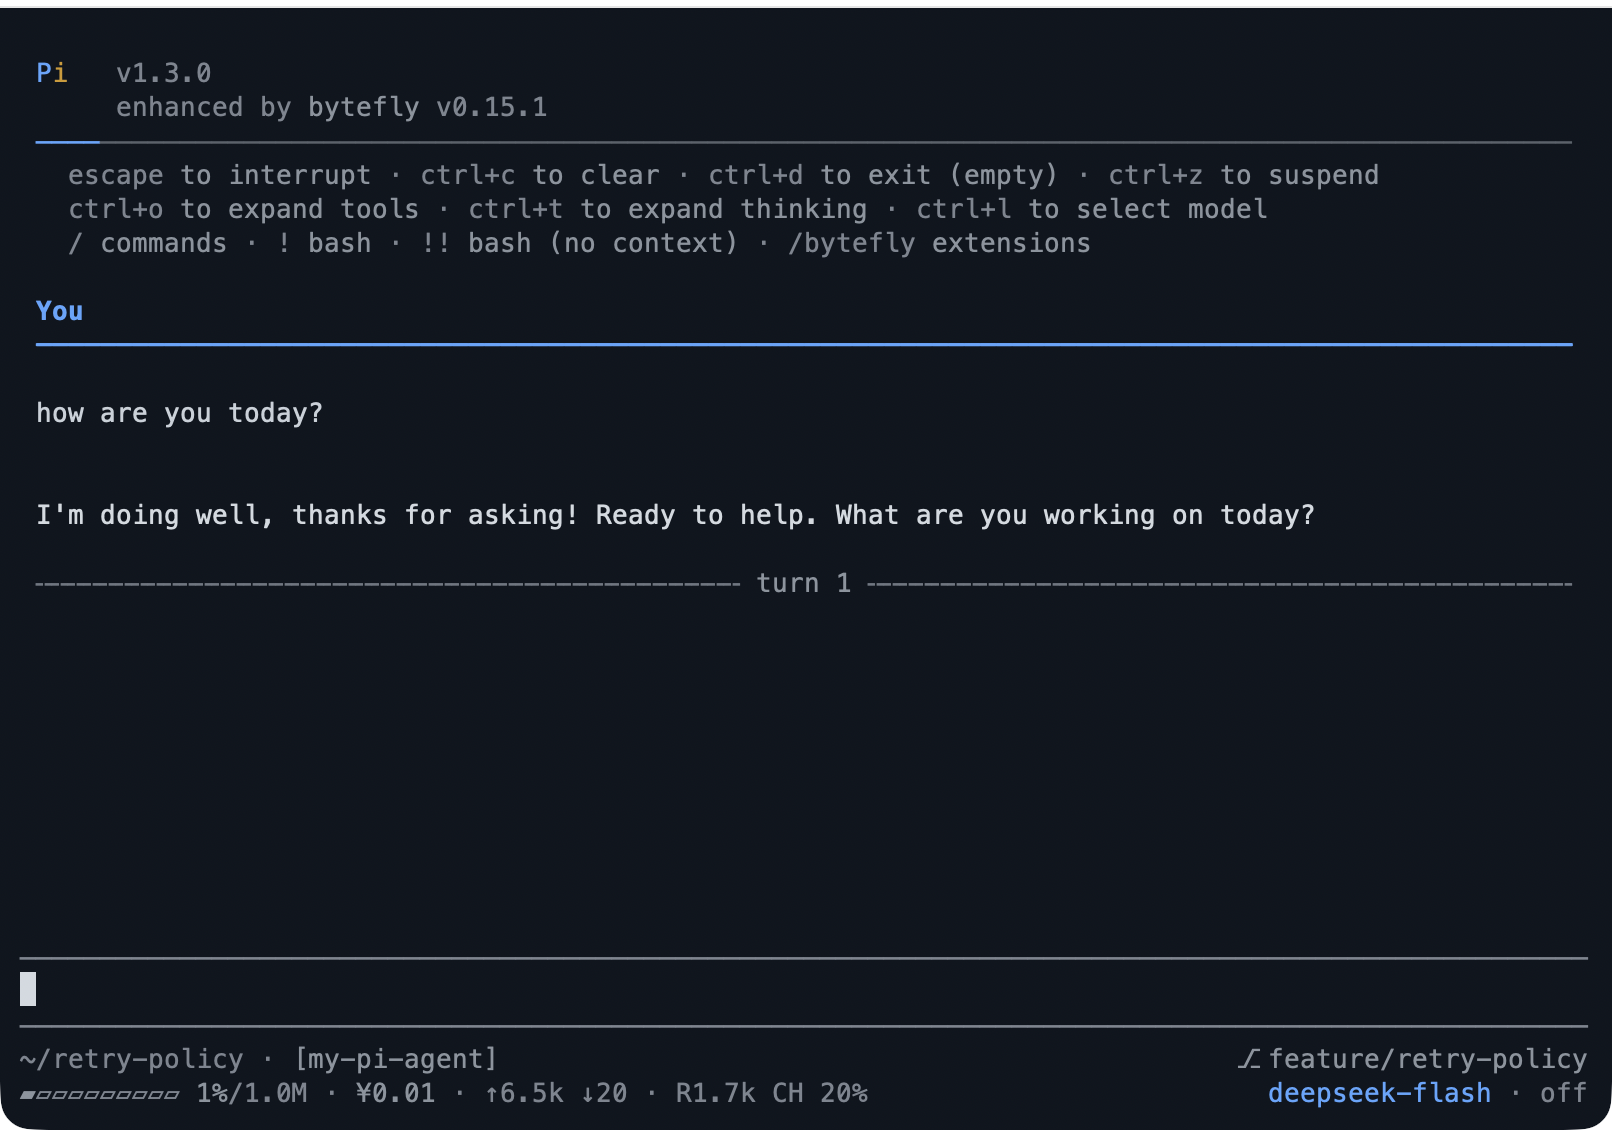
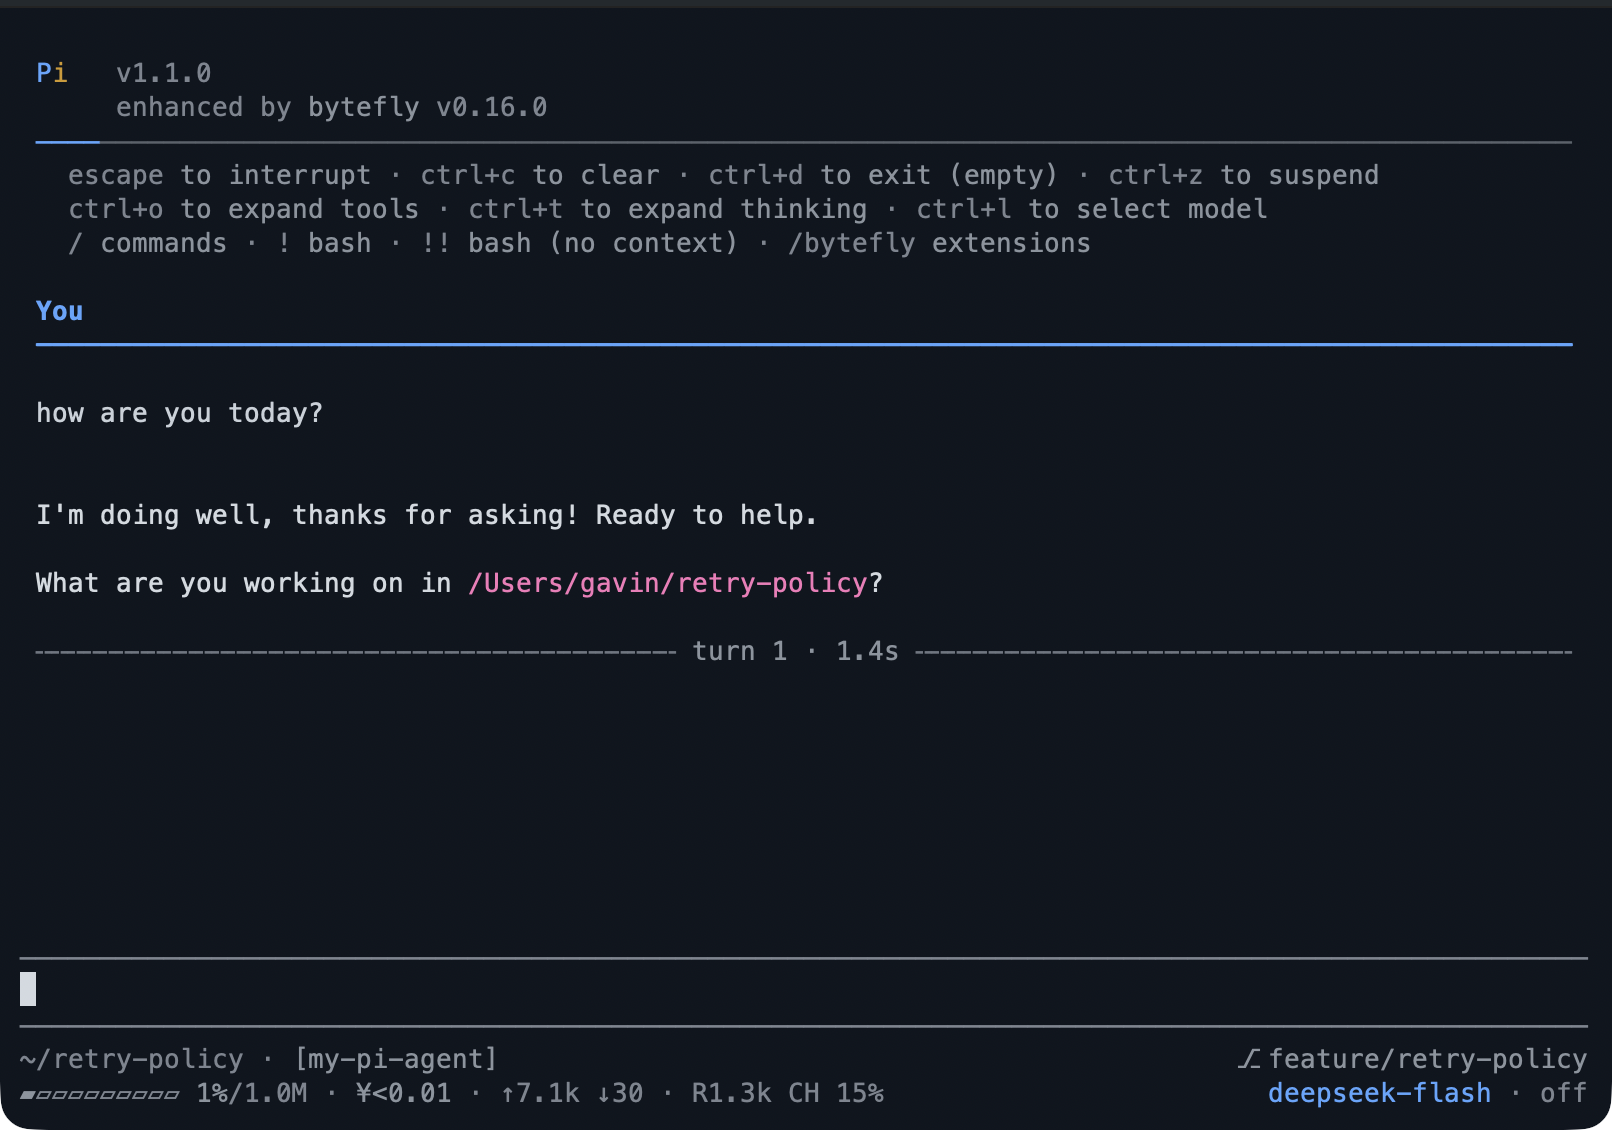
chore(release): 0.16.0

diff --git a/CHANGELOG.md b/CHANGELOG.md
@@ -6,6 +6,8 @@ to [Semantic Versioning](https://semver.org/spec/v2.0.0.html).
 
 ## [Unreleased]
 
+## [0.16.0] - 2026-10-21
+
 ### Added
 
 - `skills`: a model-invoked `changelog` skill drafts the candidate bullet before
@@ -2652,7 +2654,8 @@ one installable Pi package.
   the worktree it ran in, and the rewind end-to-end test seeds its snapshot with
   the native repo root.
 
-[Unreleased]: https://github.com/gavin-hu/my-pi-agent/compare/v0.15.1...HEAD
+[Unreleased]: https://github.com/gavin-hu/my-pi-agent/compare/v0.16.0...HEAD
+[0.16.0]: https://github.com/gavin-hu/my-pi-agent/releases/tag/v0.16.0
 [0.15.1]: https://github.com/gavin-hu/my-pi-agent/releases/tag/v0.15.1
 [0.15.0]: https://github.com/gavin-hu/my-pi-agent/releases/tag/v0.15.0
 [0.14.0]: https://github.com/gavin-hu/my-pi-agent/releases/tag/v0.14.0

diff --git a/docs/user-guide/README.md b/docs/user-guide/README.md
@@ -12,7 +12,7 @@ the limits where they matter. You do not need to program to follow it. A few
 features touch your project's git history — worktrees, snapshots, the browser's
 change view — and each one says so.
 
-This edition was checked against my-pi-agent 0.15.1 and Pi 1.3.0. Run
+This edition was checked against my-pi-agent 0.16.0 and Pi 1.3.0. Run
 `pi --version` and `pi list` if a key or screen differs; the
 [changelog](../../CHANGELOG.md) lists what changed since this edition.
 

diff --git a/docs/user-guide/getting-started.md b/docs/user-guide/getting-started.md
@@ -66,7 +66,7 @@ package outside your source tree.
    teammates:
 
    ```bash
-   pi install git:github.com/gavin-hu/my-pi-agent@v0.15.1
+   pi install git:github.com/gavin-hu/my-pi-agent@v0.16.0
    ```
 
    npm versions and git tags name the same release. The pin above matches the
